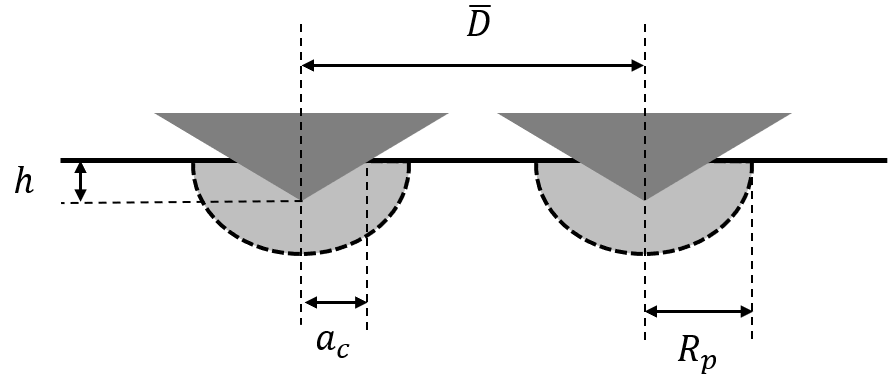
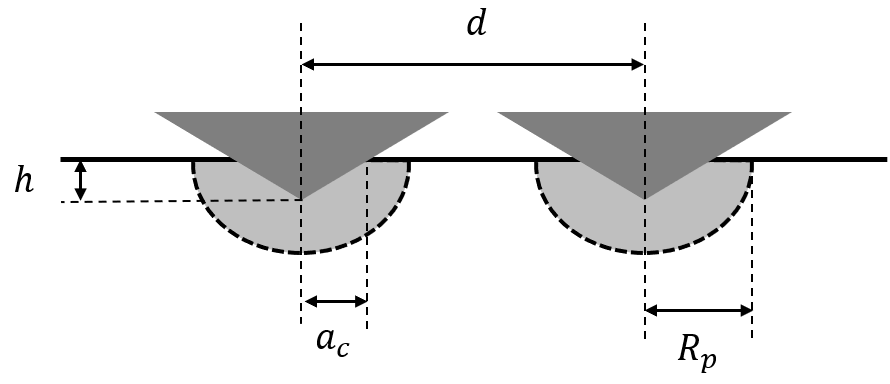
corrected pic and doc

diff --git a/doc/mapping.rst b/doc/mapping.rst
@@ -44,33 +44,33 @@ Indentation length scales
 ---------------------------
 
 According to Constantinides et al. [#Constantinides_2006]_, the indentation depth :math:`h` should be at most 1/10
-of the characteristic size of the microstructure :math:`D` (e.g.: particle size in a matrix, grain or void diameter...),
+of the characteristic size of the microstructure :math:`\overline{D}` (e.g.: particle size in a matrix, grain or void diameter...),
 in order to apply continuum indentation analysis to heterogeneous systems and  to  access  phase  properties.
 This rule refers to the well-known 10% rule of thumb proposed by Buckle [#Buckle_1973]_, which is a rough first estimation. 
 In cases where the contrast between the mechanical properties of the two phases becomes significant
 (e.g.: ratio between the elastic modulii lower than 0.2 or higher than 5), the method is not really reliable anymore
 and special care should be taken in the interpretation of the indentation results.
 
-Once the maximum indentation depth is defined following this first rule, it is required to well define the distance between each indents.
-To avoid overlap of indents, the distance :math:`D` between 2 indents has to be higher than the plastic radius :math:`R_\text{p}` below 1 indent.
-Usually, the plastic radius in metals is between 3 and 6 times the contact radius :math:`a_\text{c}`, between the indenter and the sample surface.
-Finally, the contact radius is rougly estimated to be 3.5 times the indentation depth in the case of Berkovich indentation and 0.7 times the indentation depth in case of cube-corner indentation.
-
-Thus, indentation step :math:`D` can be defined the following rule of thumb in case of Berkovich indentation:
-
-    .. math:: D > R_\text{p} = 10.5\text{x to } 21\text{x} h
-            :label: berkovich_indent_dist
-			
-And in case of cube-corner indentation:
-            
-    .. math:: D > R_\text{p} = 2.1\text{x to } 4.2\text{x} h
-            :label: cubecorner_indent_dist
-			
 .. figure:: ./_pictures/grid_indentation_length_scale.png
    :scale: 40 %
    :align: center
    
    *Schematic of the principle of the grid indentation technique for heterogeneous materials.*
+
+Once the maximum indentation depth is defined following this first rule, it is required to well define the distance between each indents.
+To avoid overlap of indents, the distance :math:`d` between 2 indents has to be higher than the plastic radius :math:`R_\text{p}` below 1 indent.
+Usually, the plastic radius in metals is between 3 and 6 times the contact radius :math:`a_\text{c}`, between the indenter and the sample surface.
+And finally, the contact radius is roughly estimated to be 3.5 times the indentation depth :math:`h` in the case of Berkovich indentation and 0.7 times the indentation depth in case of cube-corner indentation.
+
+Thus, indentation step :math:`d` can be defined the following rule of thumb in case of Berkovich indentation:
+
+    .. math:: d > R_\text{p} = 10.5\text{x to } 21\text{x }h
+            :label: berkovich_indent_dist
+			
+And in case of cube-corner indentation:
+            
+    .. math:: d > R_\text{p} = 2.1\text{x to } 4.2\text{x }h
+            :label: cubecorner_indent_dist
 
 .. figure:: ./_pictures/grid_indentation_length_scale_cs.png
    :scale: 40 %
